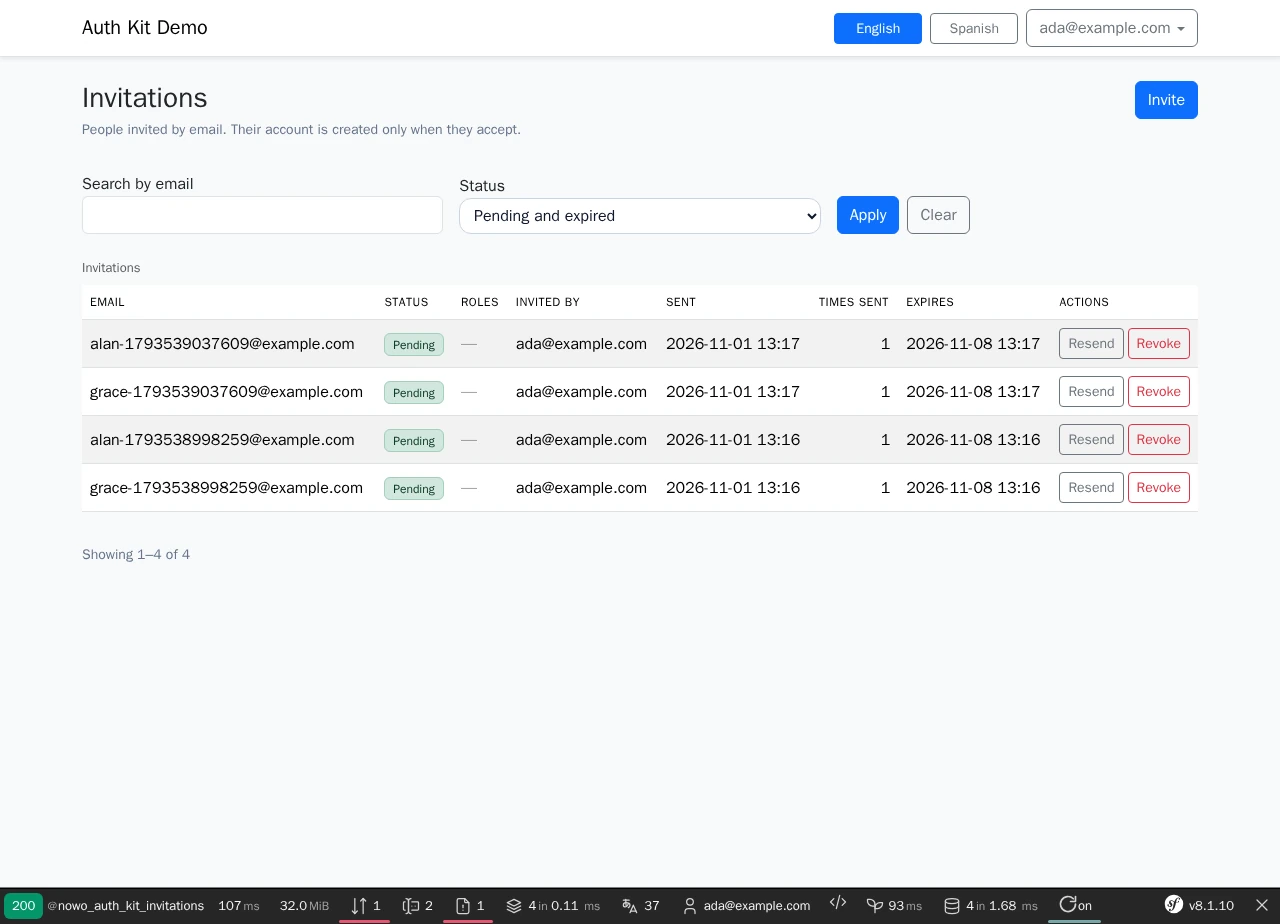
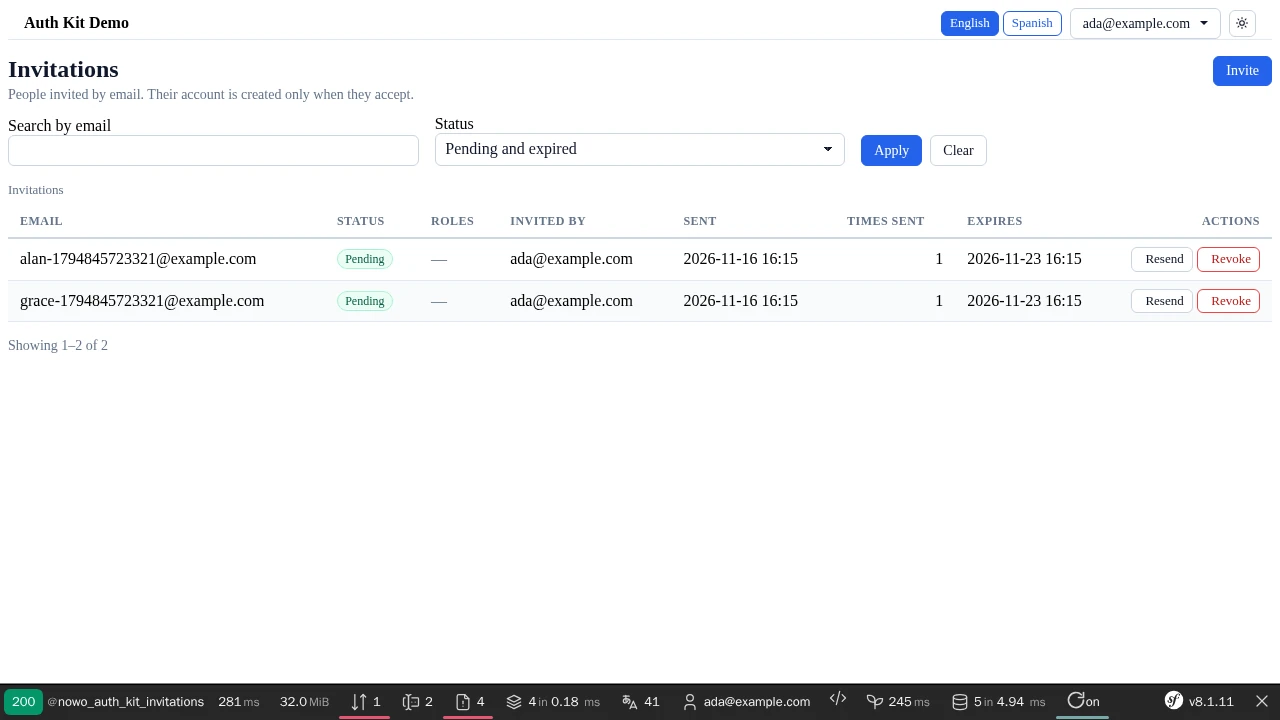
chore(demo): build the demo on UiKit and FormKit (REQ-DEMO-014/015) (#61)
* chore(demo): build the demo on UiKit and FormKit (REQ-DEMO-014/015)

The demo shell is UiKit's admin layout with its default theme; the Bootstrap CDN shell, the hand-written navbar and the theme token override are gone. The demo has no demo-owned form (the auth forms are the bundle's FormKit types).

* docs(demo): refresh the demo screenshots on the UiKit shell (REQ-DEMO-013)

diff --git a/demo/symfony8/public/css/demo-auth.css b/demo/symfony8/public/css/demo-auth.css
@@ -1,16 +1,8 @@
 /**
  * Auth Kit demo host — frame of the guest pages (the auth panel itself is the UiKit auth scaffold, themed through
- * nowo_ui_kit.theme; no bundle template overrides).
+ * UiKit's default theme; no bundle template overrides, no global token overrides).
  */
 .demo-guest__column {
   width: min(28rem, 100%);
   margin-inline: auto;
-}
-
-.demo-guest [data-nowo-ui-page="auth"] {
-  box-shadow: 0 0.125rem 0.75rem rgb(15 23 42 / 0.06);
-}
-
-.locale-switcher .btn {
-  min-width: 5.5rem;
 }

diff --git a/demo/symfony8/e2e/tests/screenshots.spec.ts b/demo/symfony8/e2e/tests/screenshots.spec.ts
@@ -14,7 +14,7 @@ const outDir = process.env.SCREENSHOT_DIR
 
 const WIDTH = 1280;
 const PAD = 16;
-const CHROME = 'nav.navbar, main';
+const CHROME = 'header.nowo-ui-header, main';
 
 /** Grows the viewport so the page fits above the WebProfiler toolbar (which must have finished loading). */
 async function fitViewport(page: Page): Promise<void> {

diff --git a/demo/README.md b/demo/README.md
@@ -1,6 +1,6 @@
 # Auth Kit Bundle — Demo
 
-FrankenPHP demo for **Symfony 8.1** with login, logout, first-user registration, password reset, magic link, **QR phone sign-in**, **invitations**, the UiKit page contract (Bootstrap 5 host theme) and **en/es** locale switching.
+FrankenPHP demo for **Symfony 8.1** with login, logout, first-user registration, password reset, magic link, **QR phone sign-in**, **invitations**, the UiKit page contract (UiKit default theme, no CSS framework) and **en/es** locale switching.
 
 See [docs/DEMO-FRANKENPHP.md](../docs/DEMO-FRANKENPHP.md) for **`FRANKENPHP_MODE`** (`worker` default / `classic`) and troubleshooting.
 
@@ -40,13 +40,13 @@ ships **no** `templates/bundles/NowoAuthKitBundle/` overrides:
 
 | Piece | Location |
 |-------|----------|
-| Guest layout bridge (`nowo_ui_kit.layouts.guest`) | `symfony8/templates/layouts/guest.html.twig` — extends `base.html.twig` (navbar, locale switcher), renders the UiKit canonical blocks and the demo **delivery inbox** |
-| Theme | `symfony8/config/packages/nowo_ui_kit.yaml` (`css_framework: bootstrap5`, tokens) |
-| Host CSS | Bootstrap 5 (demo host's choice, CDN in `base.html.twig`), `nowo-ui.css`, `nowo-auth-kit.css`, `public/css/demo-auth.css` |
+| Guest layout bridge (`nowo_ui_kit.layouts.guest`) | `symfony8/templates/layouts/guest.html.twig` — extends `base.html.twig` (the UiKit admin layout with the demo masthead and locale switcher) and adds the demo **delivery inbox** |
+| Theme | `symfony8/config/packages/nowo_ui_kit.yaml` (`css_framework: custom`; UiKit's default theme, no tokens overridden) |
+| Host CSS | `nowo-ui.css` (UiKit's own asset package; no CSS framework, no CDN), `nowo-auth-kit.css`, `public/css/demo-auth.css` |
 | Forms | AuthKit default form themes: UiKit form theme + PasswordToggle widget on the UiKit `input` slot |
-| Navbar widget | `auth_kit_dropdown()` in `base.html.twig` (`embed.mode: dropdown`; hidden on the auth pages themselves) |
+| Masthead widget | `auth_kit_dropdown()` in `base.html.twig` (`embed.mode: dropdown`; hidden on the auth pages themselves) |
 
-The public welcome page (`/en`, `/es`) and the logged-in home (`/en/home`) use `templates/base.html.twig` with navbar, locale switcher, and embedded auth dropdown. `/` redirects to the session locale (default `/en`).
+The public welcome page (`/en`, `/es`) and the logged-in home (`/en/home`) use `templates/base.html.twig` with the UiKit masthead, locale switcher, and embedded auth dropdown. `/` redirects to the session locale (default `/en`).
 
 ## Locale switching
 

diff --git a/README.md b/README.md
@@ -14,7 +14,7 @@ This bundle is **FrankenPHP worker mode friendly** (including when the kernel is
 <table>
   <tr>
     <td align="center" width="33%">
-      <img src="docs/images/demo/login.webp" alt="AuthKit sign-in page in the demo: UiKit auth panel on the host guest layout (demo navbar with locale switcher), email and password with visibility toggle, Sign in button, footer links to magic link, QR phone sign-in and password reset, Symfony profiler toolbar" />
+      <img src="docs/images/demo/login.webp" alt="AuthKit sign-in page in the demo: UiKit auth panel on the host guest layout (demo masthead with locale switcher), email and password with visibility toggle, Sign in button, footer links to magic link, QR phone sign-in and password reset, Symfony profiler toolbar" />
       <br /><sub>Sign in — UiKit auth scaffold on the host's guest layout</sub>
     </td>
     <td align="center" width="33%">
@@ -90,7 +90,7 @@ php bin/console nowo:auth-kit:configure-security
 make -C demo up-symfony8   # Symfony 8.1 — http://localhost:8010
 ```
 
-Register the first user, then try password login, **password reset**, **magic login**, **QR phone sign-in** and **dual locale URLs** (`/en/login` and bare `/login` → redirect). The demo host renders the auth pages through its UiKit guest layout (`templates/layouts/guest.html.twig`, Bootstrap 5 theme), with the navbar `auth_kit_dropdown()`, a session **delivery inbox** (no mailer) and FrankenPHP (Docker); it has no AuthKit template overrides. Screenshots: see the top of this README (`make -C demo/symfony8 demo-screenshots`).
+Register the first user, then try password login, **password reset**, **magic login**, **QR phone sign-in** and **dual locale URLs** (`/en/login` and bare `/login` → redirect). The demo host renders the auth pages through its UiKit guest layout (`templates/layouts/guest.html.twig`, UiKit default theme), with the masthead `auth_kit_dropdown()`, a session **delivery inbox** (no mailer) and FrankenPHP (Docker); it has no AuthKit template overrides. Screenshots: see the top of this README (`make -C demo/symfony8 demo-screenshots`).
 
 See [demo/README.md](demo/README.md) for template override paths and [docs/DEMO-FRANKENPHP.md](docs/DEMO-FRANKENPHP.md) for FrankenPHP setup (including **worker mode** for production).
 

diff --git a/docs/CHANGELOG.md b/docs/CHANGELOG.md
@@ -114,6 +114,16 @@ and this project adheres to [Semantic Versioning](https://semver.org/spec/v2.0.0
 
 ## [Unreleased]
 
+### Demo
+
+- The demo shell is UiKit's admin layout with UiKit's default theme (REQ-DEMO-014): the Bootstrap CDN stylesheet, the
+  hand-written navbar/card shell and the `nowo_ui_kit.theme.tokens` override are gone; the demo pages use UiKit's
+  `nowo-ui-*` components and the guest/admin layout bridges extend the new base. No bundle runtime change.
+
+### Documentation
+
+- `demo/README.md` describes the UiKit-only demo shell.
+
 ## [1.52.0] - 2026-11-16
 
 Target: 1.52.0 (minor: `nowo-tech/otp-input-bundle` floor raised to ^1.9). Hosts on the bundle templates change
